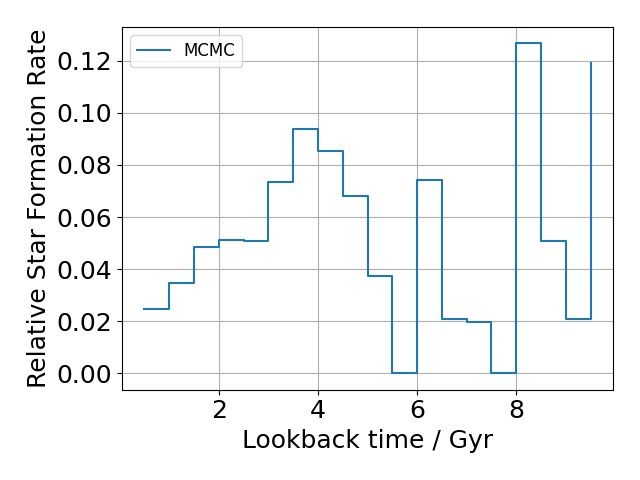
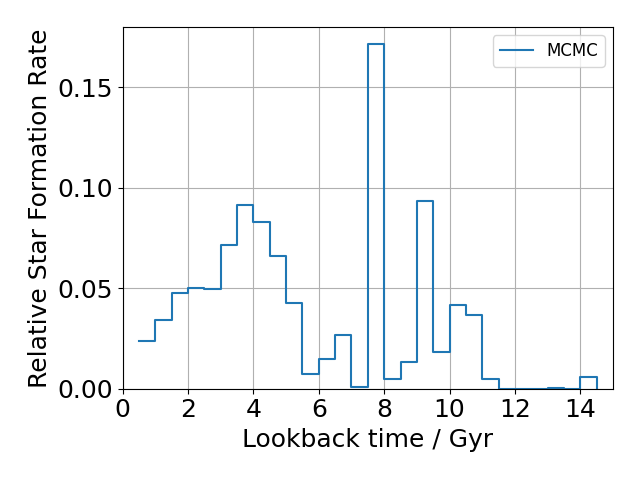
updated gcns wdlf sfh

diff --git a/sfh_mcmc_gcns_wdlf.py b/sfh_mcmc_gcns_wdlf.py
@@ -8,7 +8,7 @@ from WDPhotTools import theoretical_lf
 
 
 def log_prior(theta):
-    if (theta <= 0.0).any():
+    if (theta < 0.0).any():
         return -np.inf
     else:
         return 0.0
@@ -26,8 +26,10 @@ def log_probability(rel_norm, obs, err, model_list):
 
 
 # Collect all the partial WDLFs, in chunks of 0.5 Gyr
+
+# Collect all the partial WDLFs, in chunks of 0.5 Gyr
 partial_wdlf = []
-age = np.arange(0.5, 10.0, 0.5)
+age = np.arange(0.5, 15.0, 0.5)
 for i in age:
     filename1 = (
         "montreal_co_da_20_K01_PARSECz0014_C08_{0:.2f}_Mbol.csv".format(i)
@@ -101,7 +103,7 @@ obs_wdlf_err = e_gen**0.5 / bin_size
 
 pwdlf_model = partial_wdlf[:, obs_wdlf > 0.0]
 
-nwalkers = 500
+nwalkers = 1000
 ndim = len(partial_wdlf)
 
 rel_norm = np.random.rand(nwalkers, ndim)
@@ -112,7 +114,7 @@ sampler = emcee.EnsembleSampler(
     log_probability,
     args=(obs_wdlf[obs_wdlf > 0.0], obs_wdlf_err[obs_wdlf > 0.0], pwdlf_model),
 )
-sampler.run_mcmc(rel_norm, 50000, progress=True)
+sampler.run_mcmc(rel_norm, 10000, progress=True)
 
 flat_samples = sampler.get_chain(discard=1000, thin=5, flat=True)
 
@@ -127,6 +129,9 @@ plt.clf()
 plt.step(age, solution, where="post", label="MCMC")
 plt.legend()
 plt.grid()
+plt.xticks(np.arange(0, 15, 2))
+plt.xlim(0, 15)
+plt.ylim(bottom=0)
 plt.xlabel("Lookback time / Gyr")
 plt.ylabel("Relative Star Formation Rate")
 plt.tight_layout()
@@ -151,8 +156,8 @@ plt.plot(
 )
 plt.xlabel(r"M${_\mathrm{bol}}$ / mag")
 plt.ylabel("log(arbitrary number density)")
-plt.xlim(5.0, 18.0)
-plt.ylim(1e-6, 5e-3)
+plt.xlim(0.0, 20.0)
+plt.ylim(1e-7, 5e-3)
 plt.yscale("log")
 plt.legend()
 plt.grid()
